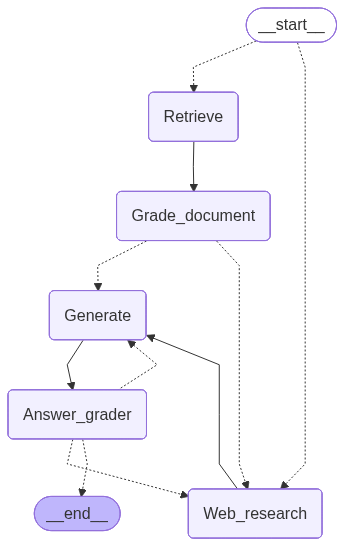
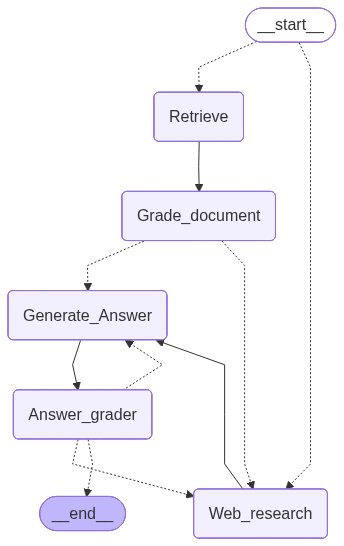
update graph namings

diff --git a/src/nodes/retrieve.py b/src/nodes/retrieve.py
@@ -1,9 +1,15 @@
 from models.state import GraphState
-from scripts.ingestion import vectorstore
-
+from langchain_chroma import Chroma
+from langchain_google_genai import GoogleGenerativeAIEmbeddings
 
 def retrieve(state: GraphState):
     print("---Retrieving answer from the knowledge base---")
+    embeddings = GoogleGenerativeAIEmbeddings(model="gemini-embedding-001")
+    vectorstore = Chroma(
+    collection_name="Langgraph_RAG",
+    embedding_function=embeddings,
+    persist_directory="./data/chroma_langgraph_db",
+)
     retriever = vectorstore.as_retriever()
     question = state["question"]
     documents = retriever.invoke(question)

diff --git a/src/main.py b/src/main.py
@@ -7,15 +7,10 @@ from chains.entry_point_chain import entry_point_chain
 from langgraph.graph import StateGraph, END
 from models.state import GraphState
 
-#######################################
-#solution to solve asyncio issue
-
-#########################################
-
 RETRIEVE = "Retrieve"
 GRADE_DOCUMENT = "Grade_document"
 WEB_SEARCH = "Web_research"
-ANSWER = "Generate"
+ANSWER = "Generate_Answer"
 ANSWER_GRADER = "Answer_grader"
 
 
